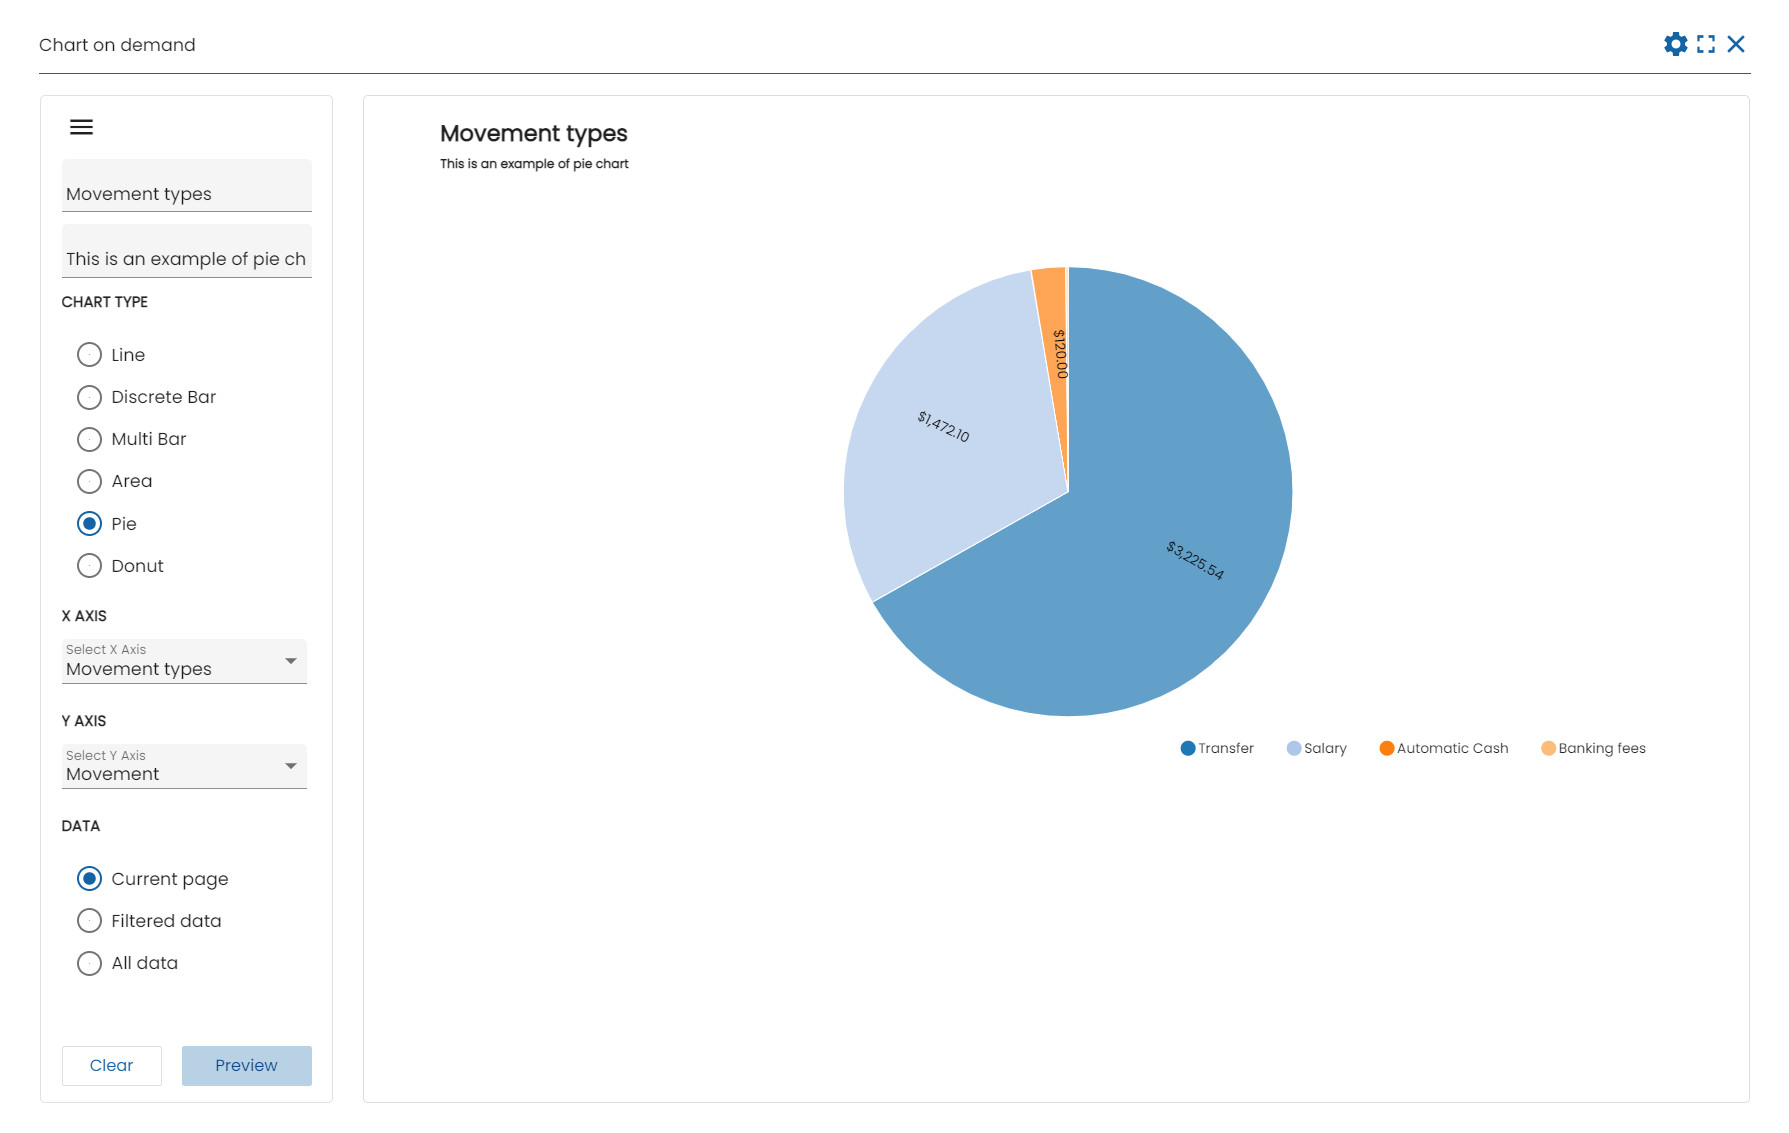
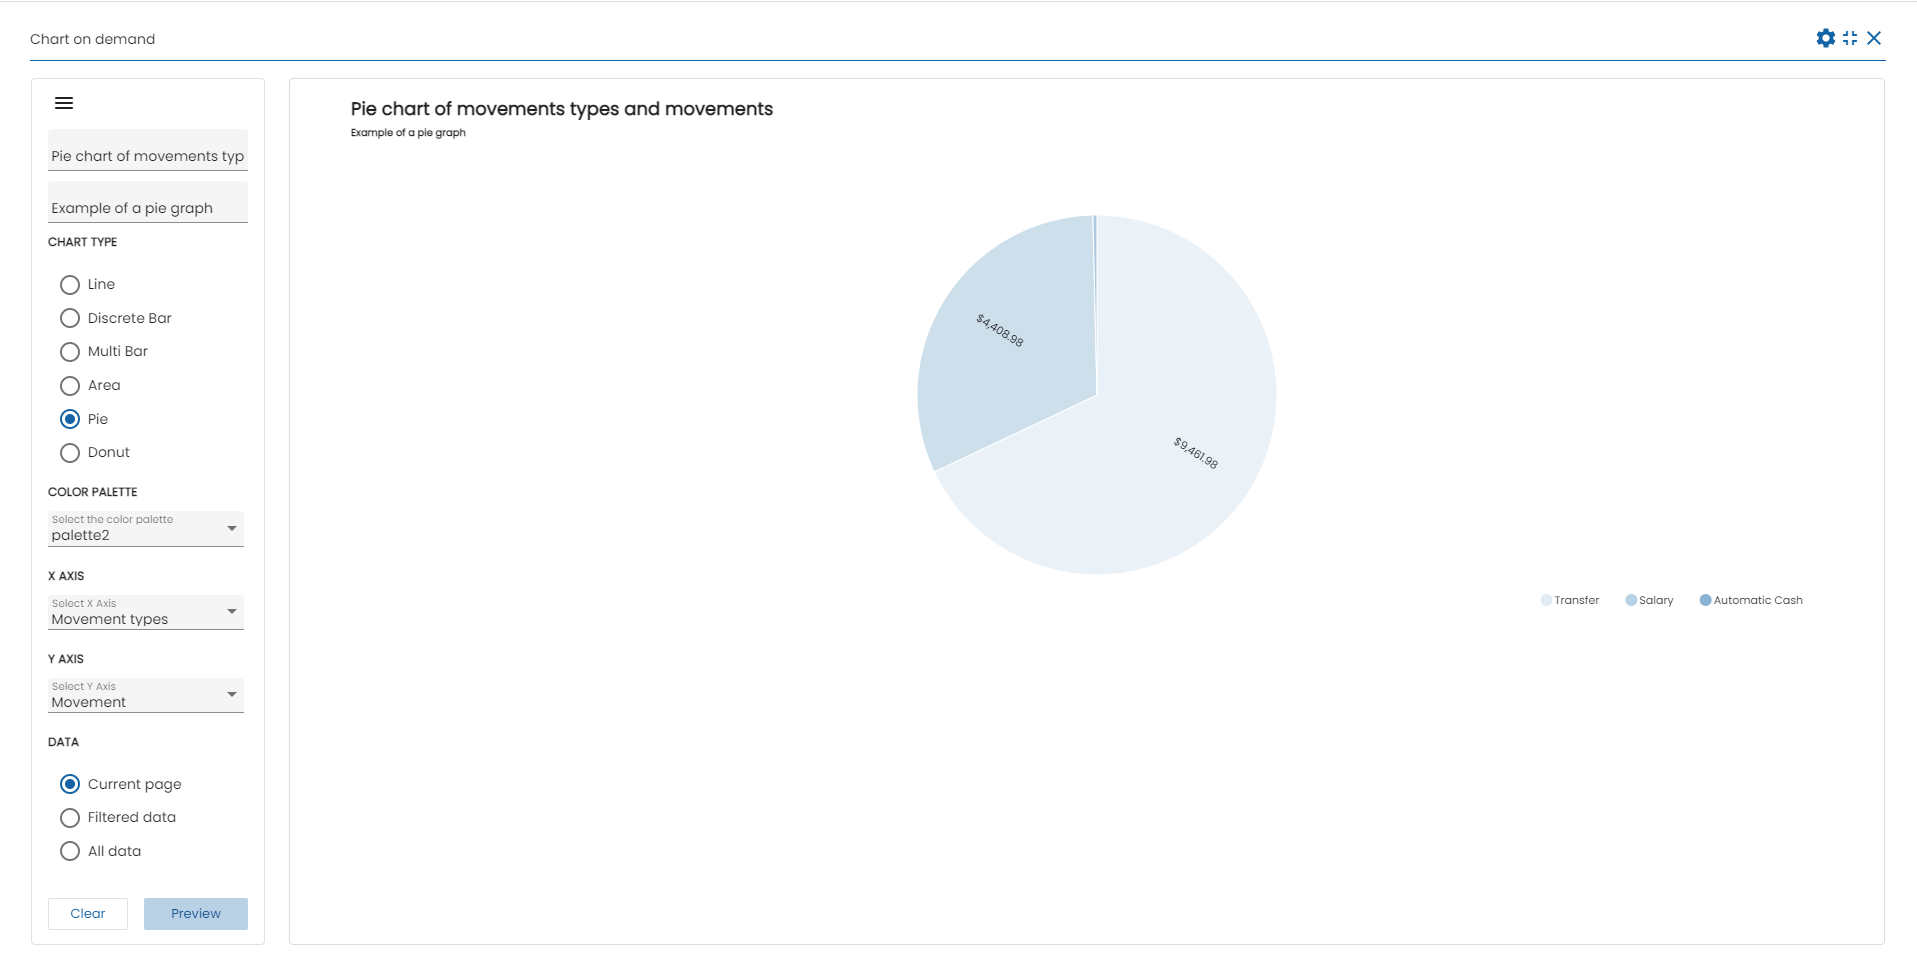
added palette color (#372)

diff --git a/_ontimize_web_ngx_charts/chart_on_demand/00-overview.md b/_ontimize_web_ngx_charts/chart_on_demand/00-overview.md
@@ -13,13 +13,15 @@ This visual tool will allow users to define parameters of the chart such as:
 
 2.- Type of graph (line, discretebar, multibar, area, pie, donut)
 
-3.- Column to display on the x-axis
+3.- Color palette for multi bar, pie and donut charts
 
-4.- Column to display on the y-axis
+4.- Column to display on the x-axis
 
-5.- Data source (current page, filtered data, all data)
+5.- Column to display on the y-axis
 
-6.- Preferences (allows to save a configuration, apply an existing one or update it)
+6.- Data source (current page, filtered data, all data)
+
+7.- Preferences (allows to save a configuration, apply an existing one or update it)
 
 >**NOTE:** Remember to complete the steps you need to perform on your backend server to complete the charts on-demand configuration following this [link](https://ontimize.github.io/ontimize-boot/basics/charts/chart-on-demand){:target="_blank"}
 
